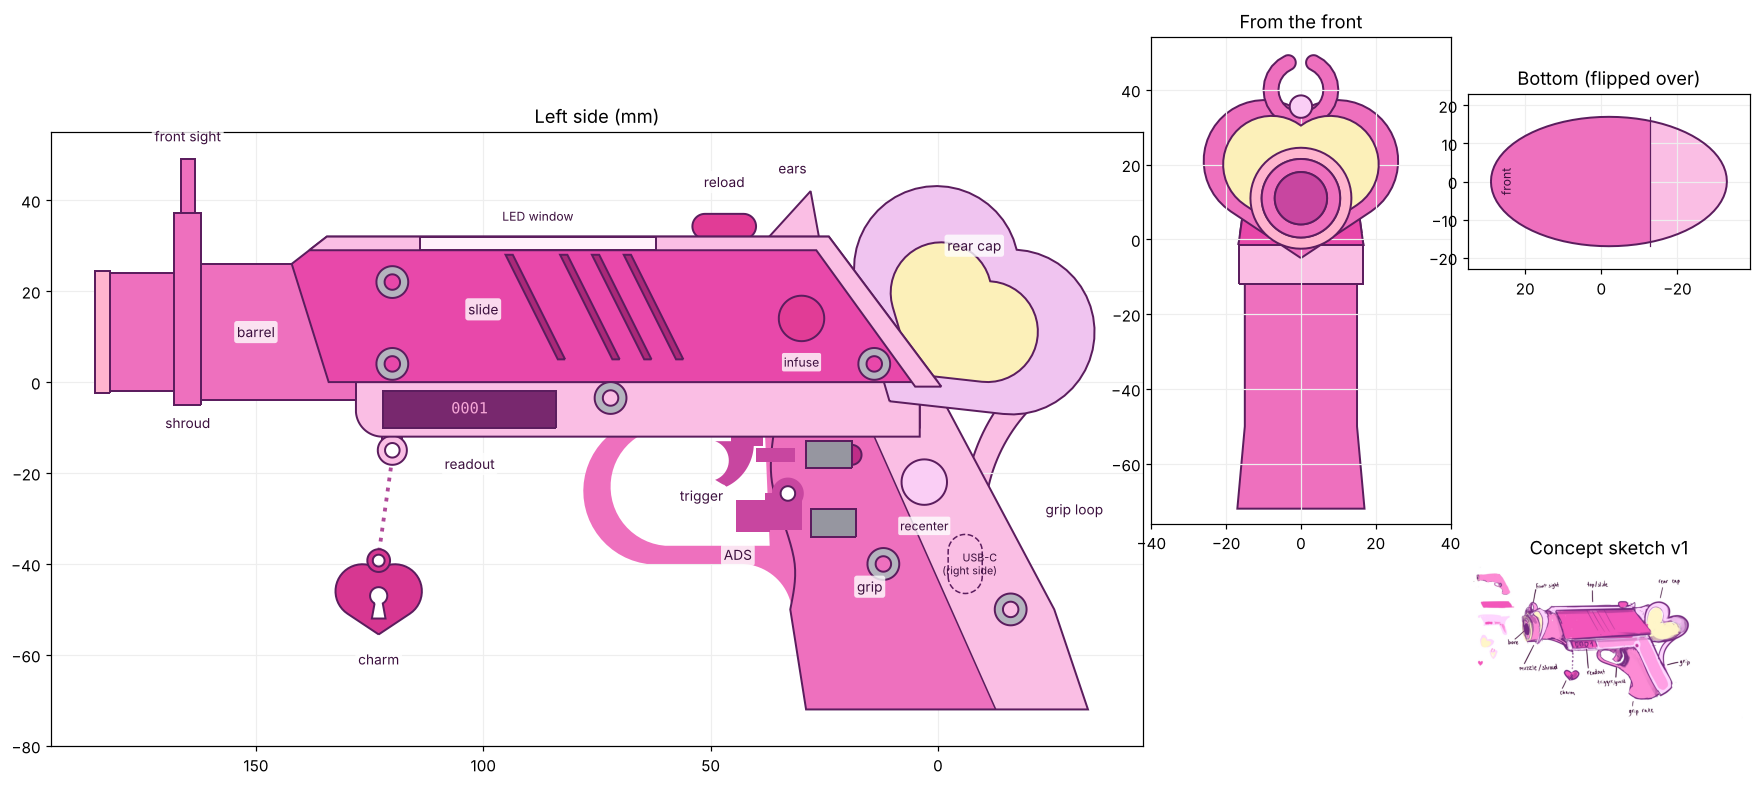
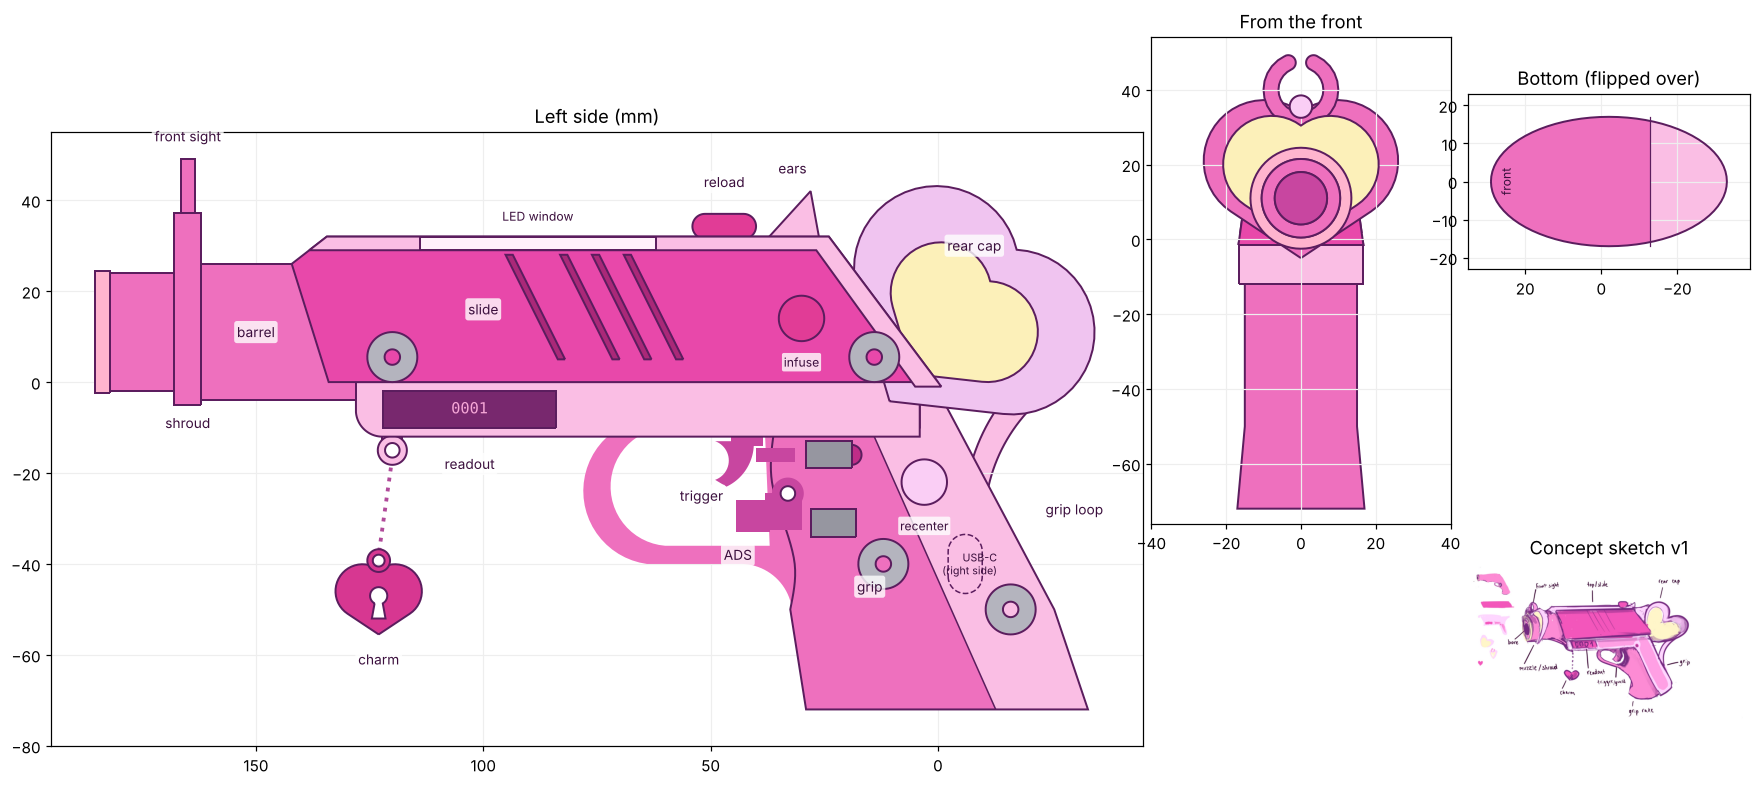
Join the shell halves with the 4 nylon standoffs (screws optional)
FASTENER = 'standoff' (default): four M3 nylon standoffs (13 mm M/F,
6 mm thread) sit hidden in hex pockets in the left half; their thread
pokes into the right half where the nut goes on through a 5.5 mm
nut-driver hole. Posts: two in the slide, two in the grip. The original
6 screw + heat-set insert design stays available with FASTENER = 'screw'.
Version label v16.

Claude-Session: https://claude.ai/code/session_01RDHdy5xfTrUfMAq7GtHoaE

diff --git a/Fusion/Scripts/CelestiaGunMouse/CelestiaGunMouse.py b/Fusion/Scripts/CelestiaGunMouse/CelestiaGunMouse.py
@@ -37,7 +37,7 @@ import math
 import traceback
 
 # Shown in the pop-up at the end of a run, so you can tell which version ran.
-SCRIPT_VERSION = 'v15: hollow inside for the electronics'
+SCRIPT_VERSION = 'v16: shell joined with your 4 nylon standoffs'
 
 import adsk.core
 import adsk.fusion
@@ -115,8 +115,25 @@ TRIGGER_SWITCH = (19.0, 29.0, -19.0, -13.0)   # x0, x1, y0, y1 of the switch bod
 ADS_SWITCH = (18.0, 28.0, -34.0, -28.0)
 SWITCH_HALF_LEN = 10.0            # half its 20 mm length (it lies across the grip)
 
-# Left/right split and M3 screws. Screws go in from the RIGHT side (heads
-# hidden there) into heat-set inserts in the LEFT half.
+# Left/right split. How the halves are held together:
+#   'standoff' - your 4 M3 nylon standoffs (13 mm body, 6 mm male thread, M/F)
+#                with their nuts. Each standoff sits hidden in a hex pocket in
+#                the LEFT half; its thread pokes into the RIGHT half, where the
+#                nut goes on through a hole for a 5.5 mm nut driver. Glue each
+#                colour piece to its neighbour on the same side first.
+#   'screw'    - 6 M3 screws from the RIGHT side into heat-set inserts.
+FASTENER = 'standoff'
+STANDOFF_POSTS = {
+    'Slide': [(120.0, 5.5), (14.0, 5.5)],
+    'Frame & Grip': [(-16.0, -50.0)],
+    'Grip panel': [(12.0, -40.0)],
+}
+STANDOFF_POST_R = 5.5
+STANDOFF_LEN = 13.0                   # hex body length
+STANDOFF_HEX_AF = 5.0                 # across the flats of the hex body
+STUD_LEN = 6.0                        # male thread length
+NUT_T = 2.4                           # M3 nut thickness
+NUT_DRIVER_R = 4.0                    # hole for a 5.5 mm nut driver
 SCREW_POSTS = {
     'Slide': [(120.0, 4.0), (120.0, 22.0), (14.0, 4.0)],
     'Frame & Grip': [(72.0, -3.5), (-16.0, -50.0)],
@@ -1004,7 +1021,7 @@ def build_slide(root):
     add_posts(comp, 'Slide')
     halves = split_left_right(comp, 'Slide')
     if halves:
-        screw_holes(comp, 'Slide', *halves)
+        fastener_holes(comp, 'Slide', *halves)
     return comp
 
 
@@ -1017,15 +1034,56 @@ def wall_z(host, pos):
     return P_GRIP_W / 2.0, GRIP_CAVITY_HALF_W
 
 
+def active_posts():
+    """Fastener positions for the chosen FASTENER."""
+    return STANDOFF_POSTS if FASTENER == 'standoff' else SCREW_POSTS
+
+
+def active_post_r():
+    return STANDOFF_POST_R if FASTENER == 'standoff' else POST_R
+
+
 def add_posts(comp, host):
-    """Screw posts spanning the hollow from wall to wall, joined to host."""
+    """Fastener posts spanning the hollow from wall to wall, joined to host."""
     tools = []
-    for i, pos in enumerate(SCREW_POSTS[host]):
+    for i, pos in enumerate(active_posts().get(host, [])):
         _, inner = wall_z(host, pos)
-        sk = side_sketch(comp, '{} screw post {}'.format(host, i + 1), [[('circle', pos, POST_R)]])
+        sk = side_sketch(comp, '{} post {}'.format(host, i + 1), [[('circle', pos, active_post_r())]])
         tools.append(extrude_sym(comp, pick_profile(sk), 2.0 * (inner + 0.8), NEW,
                                  name='Screw post').bodies.item(0))
     combine_join(comp, body_named(comp, host), tools)
+
+
+def fastener_holes(comp, host, left, right):
+    if FASTENER == 'standoff':
+        standoff_holes(comp, host)
+    else:
+        screw_holes(comp, host, left, right)
+
+
+def standoff_holes(comp, host):
+    """Hex pocket for the standoff body in the left half; a hole for its
+    thread and a nut-driver hole in the right half (the nut bears on the
+    bottom of that hole and pulls the halves together)."""
+    r_hex = (STANDOFF_HEX_AF + 0.2) / math.sqrt(3.0)
+    nut_seat = STUD_LEN - NUT_T - 0.2           # depth of the plastic under the nut
+    for i, pos in enumerate(active_posts().get(host, [])):
+        outer, _ = wall_z(host, pos)
+        hexagon = polygon([(pos[0] + r_hex * math.cos(math.radians(60 * k)),
+                            pos[1] + r_hex * math.sin(math.radians(60 * k))) for k in range(6)])
+        try:
+            sk = side_sketch(comp, '{} standoff pocket {}'.format(host, i + 1), [hexagon],
+                             plane=xy_plane(comp, STANDOFF_LEN / 2.0))
+            extrude_sym(comp, pick_profile(sk), STANDOFF_LEN, CUT, participants=[body_named(comp, host + ' L')])
+            sk = side_sketch(comp, '{} stud hole {}'.format(host, i + 1), [[('circle', pos, SCREW_CLEAR_R)]],
+                             plane=xy_plane(comp, -(outer + 1.0) / 2.0))
+            extrude_sym(comp, pick_profile(sk), outer + 1.0, CUT, participants=[body_named(comp, host + ' R')])
+            z_far, z_near = -(outer + 1.0), -nut_seat
+            sk = side_sketch(comp, '{} nut hole {}'.format(host, i + 1), [[('circle', pos, NUT_DRIVER_R)]],
+                             plane=xy_plane(comp, (z_far + z_near) / 2.0))
+            extrude_sym(comp, pick_profile(sk), z_near - z_far, CUT, participants=[body_named(comp, host + ' R')])
+        except Exception:
+            _skipped.append('{}: standoff {} holes skipped'.format(host, i + 1))
 
 
 def split_left_right(comp, name):
@@ -1054,7 +1112,7 @@ def split_left_right(comp, name):
 def screw_holes(comp, host, left, right):
     """Insert holes in the left half; clearance holes with a recess for the
     screw head in the right half (screws go in from the right)."""
-    for i, pos in enumerate(SCREW_POSTS[host]):
+    for i, pos in enumerate(SCREW_POSTS.get(host, [])):
         outer, _ = wall_z(host, pos)
         try:
             sk = side_sketch(comp, '{} insert {}'.format(host, i + 1), [[('circle', pos, INSERT_R)]],
@@ -1240,7 +1298,7 @@ def build_frame(root):
         add_posts(comp, host)
         halves = split_left_right(comp, host)
         if halves:
-            screw_holes(comp, host, *halves)
+            fastener_holes(comp, host, *halves)
     return comp
 
 

diff --git a/Fusion/preview/preview_side.py b/Fusion/preview/preview_side.py
@@ -159,9 +159,9 @@ for (x0, x1, y0, y1) in (cgm.TRIGGER_SWITCH, cgm.ADS_SWITCH):
     draw(ax, [rect(x0, y0, x1, y1)], C['Switch (reference)'], 3.7)
 for pivot in (cgm.TRIGGER_PIVOT, cgm.ADS_PIVOT):
     draw(ax, [[('circle', pivot, cgm.PIVOT_PIN_R)]], (255, 255, 255), 3.8)
-for host, posts in cgm.SCREW_POSTS.items():
+for host, posts in cgm.active_posts().items():
     for pos in posts:
-        draw(ax, [[('circle', pos, cgm.POST_R)], [('circle', pos, cgm.SCREW_CLEAR_R)]], (180, 180, 190), 7.5)
+        draw(ax, [[('circle', pos, cgm.active_post_r())], [('circle', pos, cgm.SCREW_CLEAR_R)]], (180, 180, 190), 7.5)
 ring, tab = cgm.eyelet_loops()
 draw(ax, [tab], C['Frame & Grip'], 3)
 draw(ax, ring, C['Frame & Grip'], 3)
